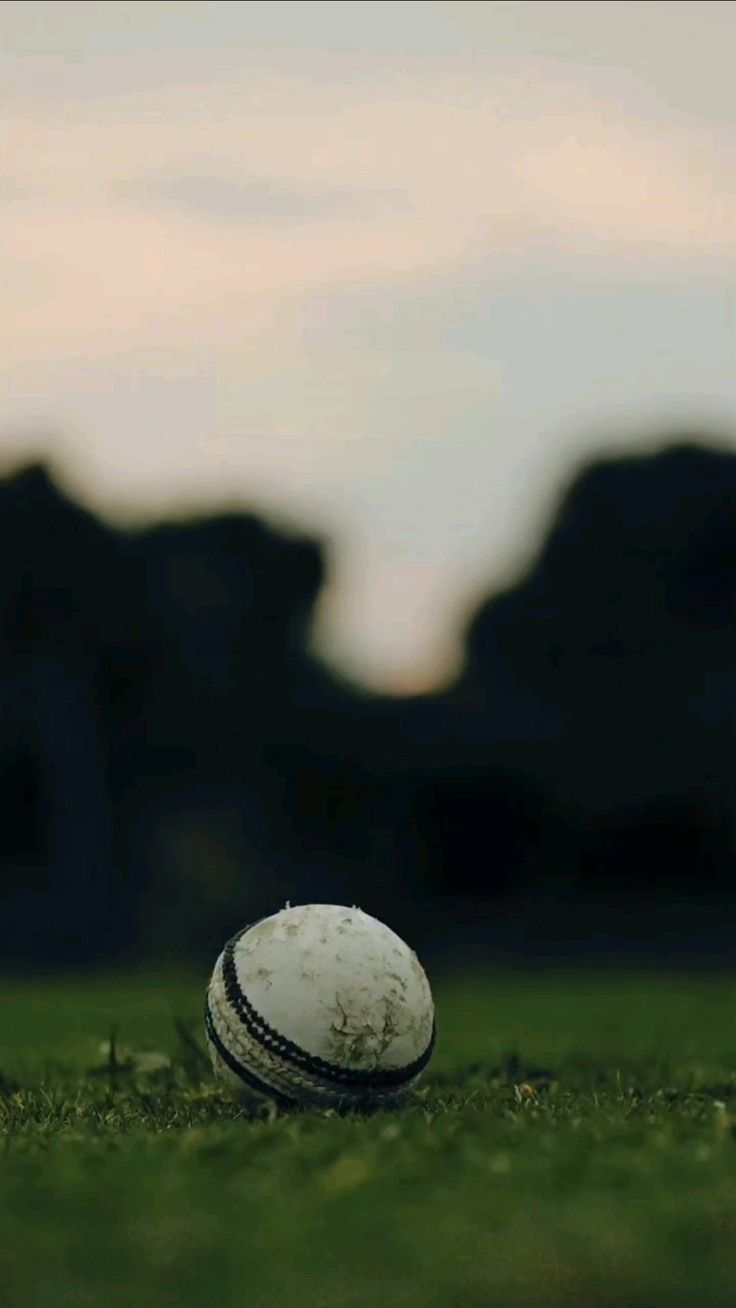
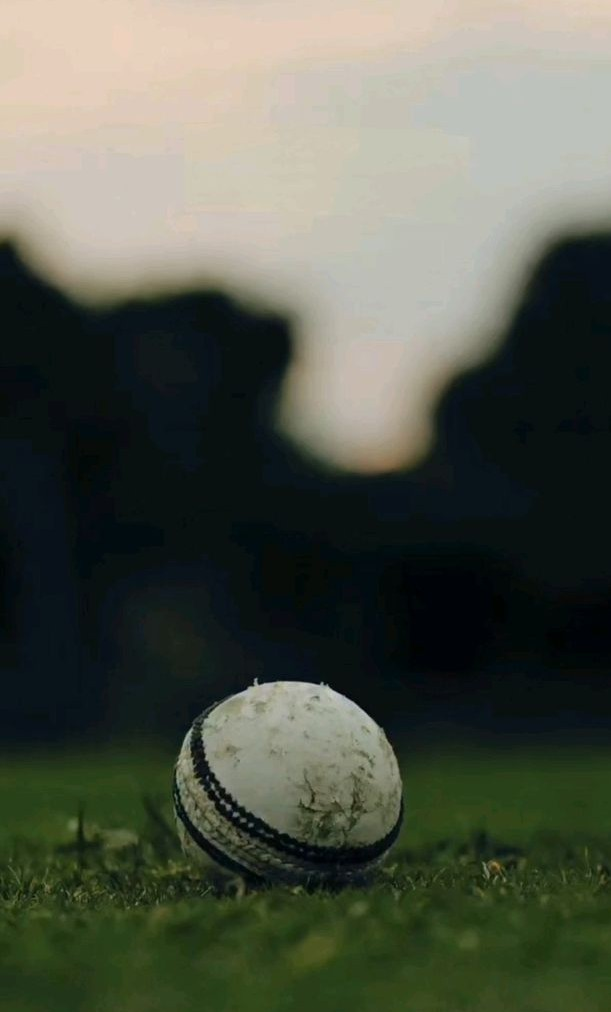
Updates

diff --git a/index.html b/index.html
@@ -5,8 +5,8 @@
     <link rel="icon" type="image/svg+xml" href="/gcc-app/favicon.svg" />
     <meta name="viewport" content="width=device-width, initial-scale=1.0" />
     <title>gcc-app</title>
-    <script type="module" crossorigin src="/gcc-app/assets/index-CYRsZJhH.js"></script>
-    <link rel="stylesheet" crossorigin href="/gcc-app/assets/index-C_Q5kxWj.css">
+    <script type="module" crossorigin src="/gcc-app/assets/index-DPxHB9F1.js"></script>
+    <link rel="stylesheet" crossorigin href="/gcc-app/assets/index-FxQExahq.css">
   </head>
   <body>
     <div id="root"></div>

diff --git a/assets/index-FxQExahq.css b/assets/index-FxQExahq.css
@@ -1,0 +1,1 @@
+*{box-sizing:border-box;margin:0;padding:0}:root{--bg-image:url(/gcc-app/cricket-bg.jpeg);--bg:#060a06;--bg2:#0c120c;--bg3:#111911;--card:#010201;--border:#ffffff0f;--border2:#22c55e26;--green:#22c55e;--green2:#16a34a;--green-dim:#22c55e1f;--green-glow:#22c55e40;--red:#ef4444;--red-dim:#ef44441f;--amber:#f59e0b;--amber-dim:#f59e0b1f;--blue:#3b82f6;--blue-dim:#3b82f61f;--white:#fff;--t1:#f0fdf0;--t2:#86938a;--t3:#3d4d3d}html,body{background:var(--bg);-webkit-font-smoothing:antialiased;height:100%;color:var(--white);font-family:Inter,Segoe UI,system-ui,sans-serif;overflow-x:hidden}#root{background:var(--bg);max-width:430px;min-height:100vh;margin:0 auto;position:relative}button{cursor:pointer;border:none;outline:none;font-family:inherit}input,select,textarea{outline:none;font-family:inherit}::-webkit-scrollbar{width:0;height:0}@keyframes shimmer{0%{background-position:-200% 0}to{background-position:200% 0}}@keyframes fadeUp{0%{opacity:0;transform:translateY(24px)}to{opacity:1;transform:translateY(0)}}@keyframes fadeIn{0%{opacity:0}to{opacity:1}}@keyframes scaleIn{0%{opacity:0;transform:scale(.95)}to{opacity:1;transform:scale(1)}}@keyframes countUp{0%{opacity:0;transform:translateY(8px)}to{opacity:1;transform:translateY(0)}}@keyframes pulse{0%,to{opacity:1}50%{opacity:.4}}@keyframes slideUp{0%{transform:translateY(100%)}to{transform:translateY(0)}}.dash-hero{width:100%;height:520px;position:relative;overflow:hidden}.dash-hero-bg{z-index:0;background-image:url(/gcc-app/cricket-bg.jpeg);background-position:bottom;background-size:cover;width:100%;max-width:430px;height:520px;position:fixed;top:0;left:50%;transform:translate(-50%)}.dash-hero-overlay{z-index:1;background:linear-gradient(#05080a0d 0%,#05080a33 30%,#05080acc 65%,#05080a 100%);position:absolute;inset:0}.dash-hero-content{z-index:2;padding:0 24px 24px;animation:.8s cubic-bezier(.16,1,.3,1) both fadeUp;position:absolute;bottom:0;left:0;right:0}.dash-hero-eyebrow{letter-spacing:2.5px;text-transform:uppercase;color:var(--green);background:#22c55e14;border:1px solid #22c55e33;border-radius:20px;align-items:center;gap:6px;margin-bottom:12px;padding:5px 12px;font-size:10px;font-weight:700;display:inline-flex}.dash-hero-balance{color:#fff;letter-spacing:-4px;font-variant-numeric:tabular-nums;text-shadow:0 4px 32px #000c;margin-bottom:14px;font-size:62px;font-weight:900;line-height:1;animation:1s cubic-bezier(.16,1,.3,1) both countUp}.dash-hero-live{align-items:center;gap:8px;margin-bottom:20px;display:flex}.dash-hero-live-dot{background:var(--green);width:6px;height:6px;box-shadow:0 0 8px var(--green);border-radius:50%;flex-shrink:0;animation:2s infinite pulse}.dash-hero-live-text{color:#ffffff59;letter-spacing:.2px;font-size:12px;font-weight:500}.dash-hero-glass{-webkit-backdrop-filter:blur(24px);background:#ffffff0d;border:1px solid #ffffff17;border-radius:18px;gap:0;padding:14px 18px;animation:.9s cubic-bezier(.16,1,.3,1) .1s both fadeUp;display:flex}.dash-hero-stat{flex:1}.dash-hero-stat+.dash-hero-stat{border-left:1px solid #ffffff12;margin-left:14px;padding-left:14px}.dash-hero-stat-label{color:#ffffff4d;text-transform:uppercase;letter-spacing:1.2px;margin-bottom:5px;font-size:9px;font-weight:700}.dash-hero-stat-val{font-variant-numeric:tabular-nums;letter-spacing:-.3px;font-size:14px;font-weight:800}.dash-body{z-index:2;background:#05080a;padding:28px 22px 40px;position:relative}.dash-section{margin-bottom:36px;animation:.5s both fadeUp}.dash-section-eyebrow{color:var(--t3);letter-spacing:2.5px;text-transform:uppercase;margin-bottom:5px;font-size:10px;font-weight:700}.dash-section-title{color:var(--t1);letter-spacing:-.5px;margin-bottom:20px;font-size:22px;font-weight:800;line-height:1.15}.dash-section-header{justify-content:space-between;align-items:flex-end;margin-bottom:18px;display:flex}.dash-see-all{color:var(--green);cursor:pointer;white-space:nowrap;background:#22c55e14;border:1px solid #22c55e26;border-radius:20px;align-items:center;gap:3px;padding:5px 12px;font-size:11px;font-weight:700;text-decoration:none;transition:all .2s;display:flex}.dash-see-all:active{background:#22c55e26;transform:scale(.96)}.dash-divider{background:linear-gradient(90deg,#0000,#ffffff0f,#0000);height:1px;margin:32px 0}.dash-progress-wrap{margin-bottom:24px}.dash-progress-top{justify-content:space-between;align-items:center;margin-bottom:10px;display:flex}.dash-progress-label{color:var(--t2);font-size:12px;font-weight:600}.dash-progress-pct{color:var(--green);font-size:13px;font-weight:800}.dash-progress-bg{background:#ffffff0f;border-radius:6px;height:5px;overflow:hidden}.dash-progress-fill{background:linear-gradient(90deg,#16a34a,#22c55e,#86efac);border-radius:6px;height:5px;transition:width 1.6s cubic-bezier(.16,1,.3,1);box-shadow:0 0 12px #22c55e80}.dash-progress-sub{color:var(--t3);letter-spacing:.2px;margin-top:6px;font-size:10px}.dash-stat-row{gap:0;display:flex}.dash-stat-item{flex:1}.dash-stat-item+.dash-stat-item{border-left:1px solid #ffffff0d;margin-left:20px;padding-left:20px}.dash-stat-icon-row{align-items:center;gap:5px;margin-bottom:6px;display:flex}.dash-stat-icon-label{color:var(--t3);text-transform:uppercase;letter-spacing:1px;font-size:9px;font-weight:700}.dash-stat-value{letter-spacing:-.8px;font-size:22px;font-weight:900}.dash-finance-row{gap:0;margin-bottom:24px;display:flex}.dash-finance-col{flex:1}.dash-finance-col+.dash-finance-col{border-left:1px solid #ffffff0d;padding-left:24px}.dash-finance-label{align-items:center;gap:5px;margin-bottom:6px;display:flex}.dash-finance-label-text{color:var(--t2);letter-spacing:1.2px;text-transform:uppercase;font-size:10px;font-weight:700}.dash-finance-value{font-variant-numeric:tabular-nums;letter-spacing:-2px;font-size:32px;font-weight:900;line-height:1}.dash-contributor-row{margin-bottom:20px}.dash-contributor-top{justify-content:space-between;align-items:center;margin-bottom:8px;display:flex}.dash-contributor-left{align-items:center;gap:10px;display:flex}.dash-contributor-medal{border-radius:10px;flex-shrink:0;justify-content:center;align-items:center;width:32px;height:32px;display:flex}.dash-contributor-name{color:var(--t1);font-size:14px;font-weight:700}.dash-contributor-amount{font-variant-numeric:tabular-nums;font-size:16px;font-weight:800}.dash-bar{background:#ffffff0d;border-radius:4px;height:2px;overflow:hidden}.dash-bar-fill{border-radius:4px;height:2px;transition:width 1.2s cubic-bezier(.16,1,.3,1)}.dash-due-row{background:#f59e0b0d;border:1px solid #f59e0b1a;border-radius:14px;align-items:center;gap:12px;margin-bottom:8px;padding:12px 14px;transition:all .2s;display:flex}.dash-due-row:active{transform:scale(.98)}.dash-due-avatar{width:36px;height:36px;color:var(--amber);background:#f59e0b1a;border:1px solid #f59e0b26;border-radius:11px;flex-shrink:0;justify-content:center;align-items:center;font-size:13px;font-weight:800;display:flex}.dash-due-name{color:var(--t1);font-size:13px;font-weight:700}.dash-due-sub{color:var(--amber);opacity:.8;margin-top:2px;font-size:11px}.dash-due-right{color:var(--t3);flex-shrink:0;margin-left:auto;font-size:11px;font-weight:600}.dash-exp-row{border-bottom:1px solid #ffffff0a;justify-content:space-between;align-items:center;padding:13px 0;display:flex}.dash-exp-left{align-items:center;gap:12px;display:flex}.dash-exp-icon{border-radius:13px;flex-shrink:0;justify-content:center;align-items:center;width:40px;height:40px;display:flex}.dash-exp-cat{color:var(--t1);margin-bottom:2px;font-size:13px;font-weight:700}.dash-exp-month{color:var(--t3);font-size:11px}.dash-exp-amount{color:var(--red);font-variant-numeric:tabular-nums;font-size:15px;font-weight:800}.dash-month-row{border-bottom:1px solid #ffffff0a;padding:15px 0}.dash-month-top{justify-content:space-between;align-items:baseline;margin-bottom:8px;display:flex}.dash-month-left{align-items:baseline;gap:10px;display:flex}.dash-month-label{color:var(--green);opacity:.8;width:30px;font-size:12px;font-weight:800}.dash-month-col{color:var(--t1);font-variant-numeric:tabular-nums;letter-spacing:-.5px;font-size:18px;font-weight:800}.dash-month-net{font-variant-numeric:tabular-nums;font-size:14px;font-weight:800}.dash-month-bar-bg{background:#ffffff0d;border-radius:4px;height:2px;overflow:hidden}.dash-month-bar-fill{opacity:.7;border-radius:4px;height:2px;transition:width 1s}.dash-month-sub{color:var(--t3);margin-top:5px;font-size:10px}.skeleton{background:linear-gradient(90deg,#ffffff08 25%,#ffffff12 50%,#ffffff08 75%) 0 0/200% 100%;border-radius:8px;animation:1.8s infinite shimmer}.members-header{background:linear-gradient(#[phone redacted]%,#060a06 100%);border-bottom:1px solid #22c55e14;padding:52px 24px 16px}.members-header-top{justify-content:space-between;align-items:center;margin-bottom:16px;display:flex}.members-title{color:#fff;letter-spacing:-.5px;font-size:26px;font-weight:900}.members-count{color:var(--t2);margin-top:2px;font-size:12px;font-weight:500}.members-add-btn{background:var(--green-dim);width:38px;height:38px;color:var(--green);cursor:pointer;border:1px solid #22c55e40;border-radius:12px;justify-content:center;align-items:center;transition:all .2s;display:flex}.members-add-btn:active{transform:scale(.93)}.members-search{margin-bottom:12px;position:relative}.members-search input{color:#fff;box-sizing:border-box;background:#ffffff0d;border:1px solid #ffffff14;border-radius:14px;width:100%;padding:11px 16px 11px 40px;font-size:14px;transition:border .2s}.members-search input:focus{border-color:#22c55e4d}.members-search input::placeholder{color:var(--t3)}.members-search-icon{color:var(--t3);position:absolute;top:50%;left:13px;transform:translateY(-50%)}.members-filters{gap:8px;padding-bottom:2px;display:flex;overflow-x:auto}.members-filters::-webkit-scrollbar{display:none}.filter-chip{cursor:pointer;white-space:nowrap;border:none;border-radius:20px;flex-shrink:0;padding:6px 14px;font-size:12px;font-weight:600;transition:all .2s}.filter-chip.active{background:var(--green);color:#000}.filter-chip.inactive{color:var(--t2);background:#ffffff0d}.members-list{padding:12px 16px}.member-card{background:var(--card);cursor:pointer;border:1px solid #ffffff0d;border-radius:18px;margin-bottom:10px;padding:16px;transition:all .2s;animation:.3s both fadeUp}.member-card:active{border-color:#22c55e33;transform:scale(.98)}.member-card-top{align-items:center;gap:12px;margin-bottom:12px;display:flex}.member-avatar{border-radius:14px;flex-shrink:0;justify-content:center;align-items:center;width:42px;height:42px;font-size:16px;font-weight:800;display:flex}.member-info{flex:1;min-width:0}.member-name{color:var(--t1);white-space:nowrap;text-overflow:ellipsis;font-size:15px;font-weight:700;overflow:hidden}.member-sub{color:var(--t2);margin-top:2px;font-size:11px}.member-badge{letter-spacing:.3px;border-radius:20px;flex-shrink:0;padding:4px 10px;font-size:10px;font-weight:700}.member-months{gap:4px;display:flex}.month-dot{border-radius:3px;flex:1;height:4px;transition:background .3s}.sheet-overlay{z-index:200;-webkit-backdrop-filter:blur(4px);backdrop-filter:blur(4px);background:#000000b3;animation:.2s fadeIn;position:fixed;inset:0}.sheet{z-index:201;background:#0f160f;border-top:1px solid #22c55e26;border-radius:24px 24px 0 0;width:100%;max-width:430px;max-height:90vh;animation:.3s slideUp;position:fixed;bottom:0;left:50%;overflow-y:auto;transform:translate(-50%)}.sheet-handle{background:#ffffff1a;border-radius:4px;width:36px;height:4px;margin:12px auto 0}.sheet-header{border-bottom:1px solid #ffffff0d;justify-content:space-between;align-items:center;padding:16px 20px 12px;display:flex}.sheet-title{color:var(--t1);font-size:17px;font-weight:800}.sheet-close{width:30px;height:30px;color:var(--t2);cursor:pointer;background:#ffffff0f;border:none;border-radius:10px;justify-content:center;align-items:center;font-size:16px;display:flex}.sheet-body{padding:16px 20px 40px}.input-group{margin-bottom:14px}.input-label{color:var(--t2);letter-spacing:.8px;text-transform:uppercase;margin-bottom:6px;font-size:11px;font-weight:700}.input-field{color:#fff;box-sizing:border-box;background:#ffffff0d;border:1.5px solid #ffffff14;border-radius:14px;width:100%;padding:12px 16px;font-size:15px;transition:border .2s}.input-field:focus{background:#22c55e0a;border-color:#22c55e66}.input-field::placeholder{color:var(--t3)}.primary-btn{background:var(--green);color:#000;cursor:pointer;letter-spacing:.3px;border:none;border-radius:16px;width:100%;margin-top:8px;padding:15px;font-size:15px;font-weight:800;transition:opacity .2s,transform .1s}.primary-btn:active{opacity:.85;transform:scale(.98)}.danger-btn{width:100%;color:var(--red);cursor:pointer;background:#ef44441a;border:1px solid #ef444433;border-radius:16px;margin-top:8px;padding:13px;font-size:14px;font-weight:700;transition:all .2s}.payment-grid{grid-template-columns:repeat(4,1fr);gap:8px;margin-bottom:20px;display:grid}.payment-cell{aspect-ratio:1;cursor:default;border:1.5px solid #0000;border-radius:12px;flex-direction:column;justify-content:center;align-items:center;gap:3px;font-size:11px;font-weight:700;display:flex}.payment-cell.paid{color:var(--green);background:#22c55e26;border-color:#22c55e4d}.payment-cell.unpaid{color:var(--t3);background:#ffffff08;border-color:#ffffff12}.empty-state{text-align:center;padding:60px 20px}.empty-title{color:var(--t2);margin-bottom:6px;font-size:16px;font-weight:700}.empty-sub{color:var(--t3);font-size:13px}.exp-header{background:linear-gradient(#[phone redacted]%,#060a06 100%);border-bottom:1px solid #22c55e14;padding:52px 24px 16px}.exp-header-top{justify-content:space-between;align-items:center;margin-bottom:16px;display:flex}.exp-title{color:#fff;letter-spacing:-.5px;font-size:26px;font-weight:900}.exp-subtitle{color:var(--t2);margin-top:2px;font-size:12px;font-weight:500}.exp-add-btn{width:38px;height:38px;color:var(--red);cursor:pointer;background:#ef44441a;border:1px solid #ef444440;border-radius:12px;justify-content:center;align-items:center;transition:all .2s;display:flex}.exp-add-btn:active{transform:scale(.93)}.exp-month-filters{gap:8px;padding-bottom:2px;display:flex;overflow-x:auto}.exp-month-filters::-webkit-scrollbar{display:none}.exp-month-chip{cursor:pointer;white-space:nowrap;border:none;border-radius:20px;flex-shrink:0;padding:6px 14px;font-size:12px;font-weight:600;transition:all .2s}.exp-month-chip.active{background:var(--red);color:#fff}.exp-month-chip.inactive{color:var(--t2);background:#ffffff0d}.exp-month-chip.has-data{color:var(--red);background:#ef44441a;border:1px solid #ef444433}.exp-body{padding:16px}.exp-summary-row{background:var(--card);border:1px solid #ffffff0d;border-radius:18px;gap:0;margin-bottom:20px;padding:16px;display:flex}.exp-summary-item{flex:1}.exp-summary-item+.exp-summary-item{border-left:1px solid #ffffff0d;margin-left:16px;padding-left:16px}.exp-summary-label{color:var(--t3);text-transform:uppercase;letter-spacing:.8px;margin-bottom:5px;font-size:10px;font-weight:700}.exp-summary-val{font-variant-numeric:tabular-nums;font-size:18px;font-weight:800}.exp-section-label{color:var(--t2);letter-spacing:1.5px;text-transform:uppercase;margin-bottom:12px;padding:0 2px;font-size:11px;font-weight:700}.exp-cat-row{margin-bottom:14px;animation:.3s both fadeUp}.exp-cat-top{justify-content:space-between;align-items:center;margin-bottom:6px;display:flex}.exp-cat-left{align-items:center;gap:8px;display:flex}.exp-cat-dot{border-radius:3px;flex-shrink:0;width:8px;height:8px}.exp-cat-name{color:var(--t1);font-size:13px;font-weight:600}.exp-cat-pct{color:var(--t3);margin-right:8px;font-size:11px}.exp-cat-amount{font-variant-numeric:tabular-nums;font-size:15px;font-weight:800}.exp-cat-bar-bg{background:#ffffff0d;border-radius:4px;height:3px;overflow:hidden}.exp-cat-bar-fill{opacity:.75;border-radius:4px;height:3px;transition:width .8s}.exp-divider{background:linear-gradient(90deg,#0000,#ffffff0f,#0000);height:1px;margin:20px 0}.exp-item-row{border-bottom:1px solid #ffffff0a;align-items:center;gap:12px;padding:12px 0;animation:.3s both fadeUp;display:flex}.exp-item-icon{border-radius:12px;flex-shrink:0;justify-content:center;align-items:center;width:38px;height:38px;display:flex}.exp-item-info{flex:1;min-width:0}.exp-item-cat{color:var(--t1);font-size:13px;font-weight:700}.exp-item-month{color:var(--t3);margin-top:2px;font-size:11px}.exp-item-amount{color:var(--red);font-variant-numeric:tabular-nums;flex-shrink:0;font-size:15px;font-weight:800}.exp-empty{text-align:center;padding:50px 20px}.exp-empty-title{color:var(--t2);margin-top:12px;margin-bottom:6px;font-size:15px;font-weight:700}.exp-empty-sub{color:var(--t3);font-size:13px}.admin-locked{background:var(--bg);flex-direction:column;justify-content:center;align-items:center;min-height:100vh;padding:40px 24px;display:flex}.admin-lock-icon{background:#22c55e14;border:1px solid #22c55e33;border-radius:24px;justify-content:center;align-items:center;width:72px;height:72px;margin-bottom:20px;display:flex}.admin-lock-title{color:var(--t1);text-align:center;margin-bottom:6px;font-size:24px;font-weight:900}.admin-lock-sub{color:var(--t2);text-align:center;margin-bottom:32px;font-size:13px}.admin-lock-form{width:100%;max-width:320px}.admin-pw-input{color:#fff;box-sizing:border-box;text-align:center;letter-spacing:3px;background:#ffffff0d;border:1.5px solid #ffffff14;border-radius:16px;width:100%;margin-bottom:12px;padding:14px 18px;font-size:16px;transition:border .2s}.admin-pw-input:focus{background:#22c55e0a;border-color:#22c55e66}.admin-pw-input::placeholder{letter-spacing:0;color:var(--t3)}.admin-pw-error{color:var(--red);text-align:center;margin-bottom:12px;font-size:12px;font-weight:600}.admin-login-btn{background:var(--green);color:#000;cursor:pointer;letter-spacing:.3px;border:none;border-radius:16px;width:100%;padding:15px;font-size:15px;font-weight:800;transition:opacity .2s,transform .1s}.admin-login-btn:active{opacity:.85;transform:scale(.98)}.admin-header{background:linear-gradient(#[phone redacted]%,#060a06 100%);border-bottom:1px solid #22c55e14;padding:52px 24px 20px}.admin-header-top{justify-content:space-between;align-items:center;display:flex}.admin-title{color:#fff;letter-spacing:-.5px;font-size:26px;font-weight:900}.admin-badge{color:var(--green);background:#22c55e1a;border:1px solid #22c55e33;border-radius:20px;align-items:center;gap:5px;padding:5px 12px;font-size:11px;font-weight:700;display:flex}.admin-body{padding:16px}.admin-section{margin-bottom:24px}.admin-section-label{color:var(--t2);letter-spacing:1.5px;text-transform:uppercase;margin-bottom:12px;padding:0 2px;font-size:11px;font-weight:700}.admin-action-row{gap:8px;margin-bottom:12px;display:flex}.admin-action-btn{cursor:pointer;border:none;border-radius:14px;flex:1;justify-content:center;align-items:center;gap:6px;padding:13px 10px;font-size:13px;font-weight:700;transition:all .2s;display:flex}.admin-action-btn:active{transform:scale(.96)}.admin-member-row{background:var(--card);cursor:pointer;border:1px solid #ffffff0d;border-radius:14px;align-items:center;gap:10px;margin-bottom:8px;padding:12px 14px;transition:all .2s;animation:.3s both fadeUp;display:flex}.admin-member-row:active{border-color:#22c55e33;transform:scale(.98)}.admin-member-avatar{border-radius:11px;flex-shrink:0;justify-content:center;align-items:center;width:36px;height:36px;font-size:14px;font-weight:800;display:flex}.admin-member-info{flex:1;min-width:0}.admin-member-name{color:var(--t1);white-space:nowrap;text-overflow:ellipsis;font-size:13px;font-weight:700;overflow:hidden}.admin-member-sub{color:var(--t2);margin-top:1px;font-size:11px}.admin-member-dots{gap:2px;display:flex}.admin-member-dot{border-radius:2px;width:5px;height:5px}.admin-sheet-overlay{z-index:200;-webkit-backdrop-filter:blur(4px);backdrop-filter:blur(4px);background:#000000bf;animation:.2s fadeIn;position:fixed;inset:0}.admin-sheet{z-index:201;background:#0c130c;border-top:1px solid #22c55e26;border-radius:24px 24px 0 0;width:100%;max-width:430px;max-height:92vh;animation:.3s slideUp;position:fixed;bottom:0;left:50%;overflow-y:auto;transform:translate(-50%)}.admin-sheet-handle{background:#ffffff1a;border-radius:4px;width:36px;height:4px;margin:12px auto 0}.admin-sheet-header{border-bottom:1px solid #ffffff0d;justify-content:space-between;align-items:center;padding:14px 20px 12px;display:flex}.admin-sheet-title{color:var(--t1);font-size:16px;font-weight:800}.admin-sheet-close{width:30px;height:30px;color:var(--t2);cursor:pointer;background:#ffffff0f;border:none;border-radius:10px;justify-content:center;align-items:center;font-size:16px;display:flex}.admin-sheet-body{padding:16px 20px 48px}.payment-grid-admin{grid-template-columns:repeat(4,1fr);gap:8px;margin-bottom:20px;display:grid}.payment-cell-admin{aspect-ratio:1;cursor:pointer;border:1.5px solid #0000;border-radius:12px;flex-direction:column;justify-content:center;align-items:center;gap:3px;font-size:11px;font-weight:700;transition:all .15s;display:flex}.payment-cell-admin:active{transform:scale(.88)}.payment-cell-admin.paid{color:var(--green);background:#22c55e26;border-color:#22c55e59}.payment-cell-admin.unpaid{color:var(--t3);background:#ffffff08;border-color:#ffffff14}.settings-row{background:var(--card);cursor:pointer;border:1px solid #ffffff0d;border-radius:14px;justify-content:space-between;align-items:center;margin-bottom:8px;padding:14px 16px;transition:all .2s;display:flex}.settings-row:active{transform:scale(.98)}.settings-row-left{align-items:center;gap:10px;display:flex}.settings-row-icon{border-radius:10px;justify-content:center;align-items:center;width:34px;height:34px;display:flex}.settings-row-label{color:var(--t1);font-size:13px;font-weight:600}.settings-row-sub{color:var(--t2);margin-top:1px;font-size:11px}.danger-zone{cursor:pointer;background:#ef44440f;border:1px solid #ef444426;border-radius:14px;justify-content:space-between;align-items:center;margin-top:8px;padding:14px 16px;transition:all .2s;display:flex}.danger-zone:active{transform:scale(.98)}.logout-btn{width:100%;color:var(--t2);cursor:pointer;background:#ffffff0a;border:1px solid #ffffff14;border-radius:16px;margin-top:8px;padding:15px;font-size:15px;font-weight:700;transition:all .2s}.logout-btn:active{opacity:.7}.input-field-admin{color:#fff;box-sizing:border-box;background:#ffffff0d;border:1.5px solid #ffffff14;border-radius:14px;width:100%;margin-bottom:12px;padding:12px 16px;font-size:15px;transition:border .2s}.input-field-admin:focus{background:#22c55e0a;border-color:#22c55e66}.input-field-admin::placeholder{color:var(--t3)}.input-label-admin{color:var(--t2);letter-spacing:.8px;text-transform:uppercase;margin-bottom:6px;font-size:11px;font-weight:700;display:block}.primary-btn-admin{background:var(--green);color:#000;cursor:pointer;border:none;border-radius:16px;width:100%;padding:14px;font-size:15px;font-weight:800;transition:opacity .2s}.primary-btn-admin:active{opacity:.85}.danger-btn-admin{width:100%;color:var(--red);cursor:pointer;background:#ef44441a;border:1px solid #ef444433;border-radius:16px;margin-top:8px;padding:13px;font-size:14px;font-weight:700;transition:all .2s}.success-toast{color:var(--green);z-index:300;white-space:nowrap;background:#22c55e26;border:1px solid #22c55e4d;border-radius:12px;padding:10px 20px;font-size:13px;font-weight:700;animation:.3s fadeUp;position:fixed;bottom:90px;left:50%;transform:translate(-50%)}